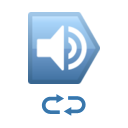
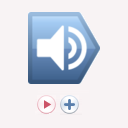
Вроде всё работает

Changed region(s): [[0.2812, 0.7188, 0.6875, 0.9062]]

diff --git a/insert_script.js b/insert_script.js
@@ -10,6 +10,6 @@ var head= document.getElementsByTagName('head')[0];
 var script = document.createElement('script');
 
 script.type = 'text/javascript';
-script.src = chrome.extension.getURL("repeat.js");
+script.src = chrome.extension.getURL("albumize.js");
 
 head.appendChild(script);
